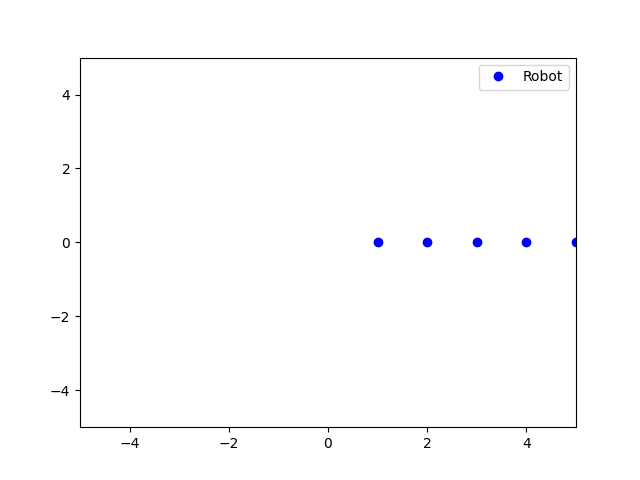
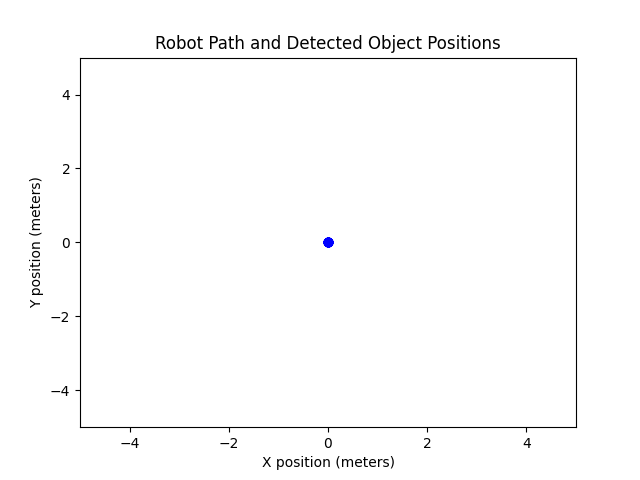
update

diff --git a/rb5_control/src/hw3_slam_control.py b/rb5_control/src/hw3_slam_control.py
@@ -1,4 +1,4 @@
-# slam_control_node.py
+# slam_control_node.py - Modified with debug prints and fixed plotting
 import rclpy
 from rclpy.node import Node
 from std_msgs.msg import Float32MultiArray
@@ -12,7 +12,9 @@ class EKFSLAM:
     def __init__(self, object_list):
         # Initialize SLAM state (robot pose and landmarks)
         self.state = np.zeros((3 + 2 * len(object_list), 1))
-
+        self.object_list = object_list
+        self.colors = plt.cm.get_cmap('tab10', len(object_list))
+    
     def update(self, measurement, obj_index):
         # Placeholder for EKF update
         pass
@@ -33,15 +35,16 @@ class SlamControlNode(Node):
         )
 
         # Initialize EKF SLAM
-        self.objects_to_detect = ['teddy bear', 'backpack', 'umbrella', 'bottle']
+        self.objects_to_detect = ['teddy bear', 'backpack', 'umbrella', 'bottle', 'stop sign', 'car']
         self.ekf_slam = EKFSLAM(self.objects_to_detect)
 
         # Initialize plot for real-time visualization
         self.fig, self.ax = plt.subplots()
         self.ax.set_xlim(-5, 5)  # Adjust limits based on environment size
         self.ax.set_ylim(-5, 5)
-        self.robot_line, = self.ax.plot([], [], 'bo', label="Robot")
         self.robot_positions = []
+        self.obj_positions = {obj: [] for obj in self.objects_to_detect}
+        self.legend_added = False
 
         # Start the movement after subscribing
         self.spin_and_track()
@@ -52,10 +55,15 @@ class SlamControlNode(Node):
         self.ekf_slam.update(np.array([distance, angle]), obj_index)
 
     def spin_and_track(self):
-        # Move the robot in a 2m x 2m square
-        for i in range(4):  # For a square
-            self.move_forward(2.0)  # Move 2.0 meters
-            self.turn_90_degrees()  # Turn 90 degrees
+        # Move the robot in a 2m x 2m square, stopping every 0.5 meters or every 45 degrees
+        time.sleep(2)
+        for _ in range(4):  # For a square
+            for _ in range(4):  # Stop every 0.5 meters
+                self.move_forward(0.5)  
+                self.update_and_plot()
+            for _ in range(2):  # Stop every 45 degrees in a 90-degree turn
+                self.turn_45_degrees()  
+                self.update_and_plot()
 
         # After completing the square, stop the robot and plot its path
         self.plot_robot_positions()
@@ -65,35 +73,57 @@ class SlamControlNode(Node):
 
     def move_forward(self, distance):
         # Move the robot forward by a specified distance (in meters)
+        print("Moving forward by 0.5 meters")
         move_twist = Twist()
-        move_twist.linear.x = 2.0  # Set a faster forward speed
+        move_twist.linear.x = 2.0  # Set slower speed for controlled movement
         self.publisher_.publish(move_twist)
-        time.sleep(distance / 1.0 * 4)  # Move for the time required based on speed
+        time.sleep(distance / 0.5)  # Move for the time required based on speed
         move_twist.linear.x = 0.0  # Stop the robot
         self.publisher_.publish(move_twist)
 
-    def turn_90_degrees(self):
-        # Rotate the robot 90 degrees
+    def turn_45_degrees(self):
+        # Rotate the robot 45 degrees
+        print("Turning 45 degrees")
         turn_twist = Twist()
-        turn_twist.angular.z = 9.0  # Set a faster rotation speed
+        turn_twist.angular.z = 9.0  # Set rotation speed
         self.publisher_.publish(turn_twist)
-        time.sleep(1.57)  # 90 degrees = 1.57 radians, so it takes 1.57 seconds at 1.0 rad/s
+        time.sleep(np.pi / 4)  # 45 degrees = pi/4 radians
         turn_twist.angular.z = 0.0  # Stop rotating
         self.publisher_.publish(turn_twist)
 
-    def plot_robot_positions(self):
-        # Update the robot's position and plot it
+    def update_and_plot(self):
+        # Update the robot's position and plot it along with detected objects
         state = self.ekf_slam.get_state()
-        robot_x, robot_y, _ = state[0, 0], state[1, 0], state[2, 0]
-        self.robot_positions.append([robot_x, robot_y])  # Add the robot's new position to the list
+        robot_x, robot_y, theta = state[0, 0], state[1, 0], state[2, 0]
+        self.robot_positions.append([robot_x, robot_y])
+        
+        # Clear and replot the robot path to prevent duplicated points in legend
+        self.ax.clear()
+        self.ax.set_xlim(-5, 5)
+        self.ax.set_ylim(-5, 5)
+        self.ax.plot(*zip(*self.robot_positions), 'bo-', label="Robot Path")
+        
+        # Plot objects with unique colors
+        for idx, obj_name in enumerate(self.objects_to_detect):
+            if self.obj_positions[obj_name]:
+                obj_pos_array = np.array(self.obj_positions[obj_name])
+                self.ax.plot(obj_pos_array[:, 0], obj_pos_array[:, 1], 'o', color=self.ekf_slam.colors(idx), label=obj_name)
 
-        # Plot all robot positions together in blue
-        robot_positions_array = np.array(self.robot_positions)
-        self.robot_line.set_data(robot_positions_array[:, 0], robot_positions_array[:, 1])
+        # Draw legend only once
+        if not self.legend_added:
+            self.ax.legend()
+            self.legend_added = True
+
+        plt.pause(0.01)
+
+    def plot_robot_positions(self):
+        plt.title("Robot Path and Detected Object Positions")
+        plt.xlabel("X position (meters)")
+        plt.ylabel("Y position (meters)")
 
     def save_plot(self):
         self.fig.savefig('slam_plot.png')  # Save the plot as an image file
-
+        print("Plot saved as slam_plot.png")
 
 def main(args=None):
     rclpy.init(args=args)

diff --git a/rb5_ros2_vision/launch/yolo_detection_node.py b/rb5_ros2_vision/launch/yolo_detection_node.py
@@ -1,4 +1,4 @@
-# yolo_detection_node.py
+# yolo_detection_node.py - Modified
 import torch
 from ultralytics import YOLO
 import rclpy
@@ -33,7 +33,7 @@ class YoloDetectionNode(Node):
             Image, self.topic_name, self.image_callback, 10
         )
 
-        # Publisher for object detection results
+        # Publisher for object detection results (distance and angle)
         self.publisher_ = self.create_publisher(Float32MultiArray, '/detected_object_info', 10)
 
     def image_callback(self, msg):
@@ -47,7 +47,7 @@ class YoloDetectionNode(Node):
             cls = int(box.cls.item())
             object_name = self.model.names[cls]
             if object_name in self.objects_to_detect:
-                self.get_logger().info(f'\n<<{object_name} Detected!>>\n')
+                self.get_logger().info(f'<<{object_name} Detected!>>')
                 self.handle_detected_object(cv_image, box, object_name)
 
     def handle_detected_object(self, cv_image, box, object_name):
@@ -59,16 +59,15 @@ class YoloDetectionNode(Node):
         # Calculate distance to object
         focal_length = 902.8  # Example focal length value (in pixels)
         known_width = self.objects_to_detect[object_name]
-        distance = (known_width * focal_length) / width
+        distance = float((known_width * focal_length) / width)
 
         # Calculate angle based on current rotation and image center offset
-        angle_offset = -(x_center - (cv_image.shape[1] / 2)) / 500
+        angle_offset = float(-(x_center - (cv_image.shape[1] / 2)) / 500)
 
-        # Publish object info (distance and angle)
+        # Publish object info (distance and angle relative to the robot's pose)
         msg = Float32MultiArray()
         msg.data = [distance, angle_offset]
         self.publisher_.publish(msg)
-
 
 def main(args=None):
     rclpy.init(args=args)
